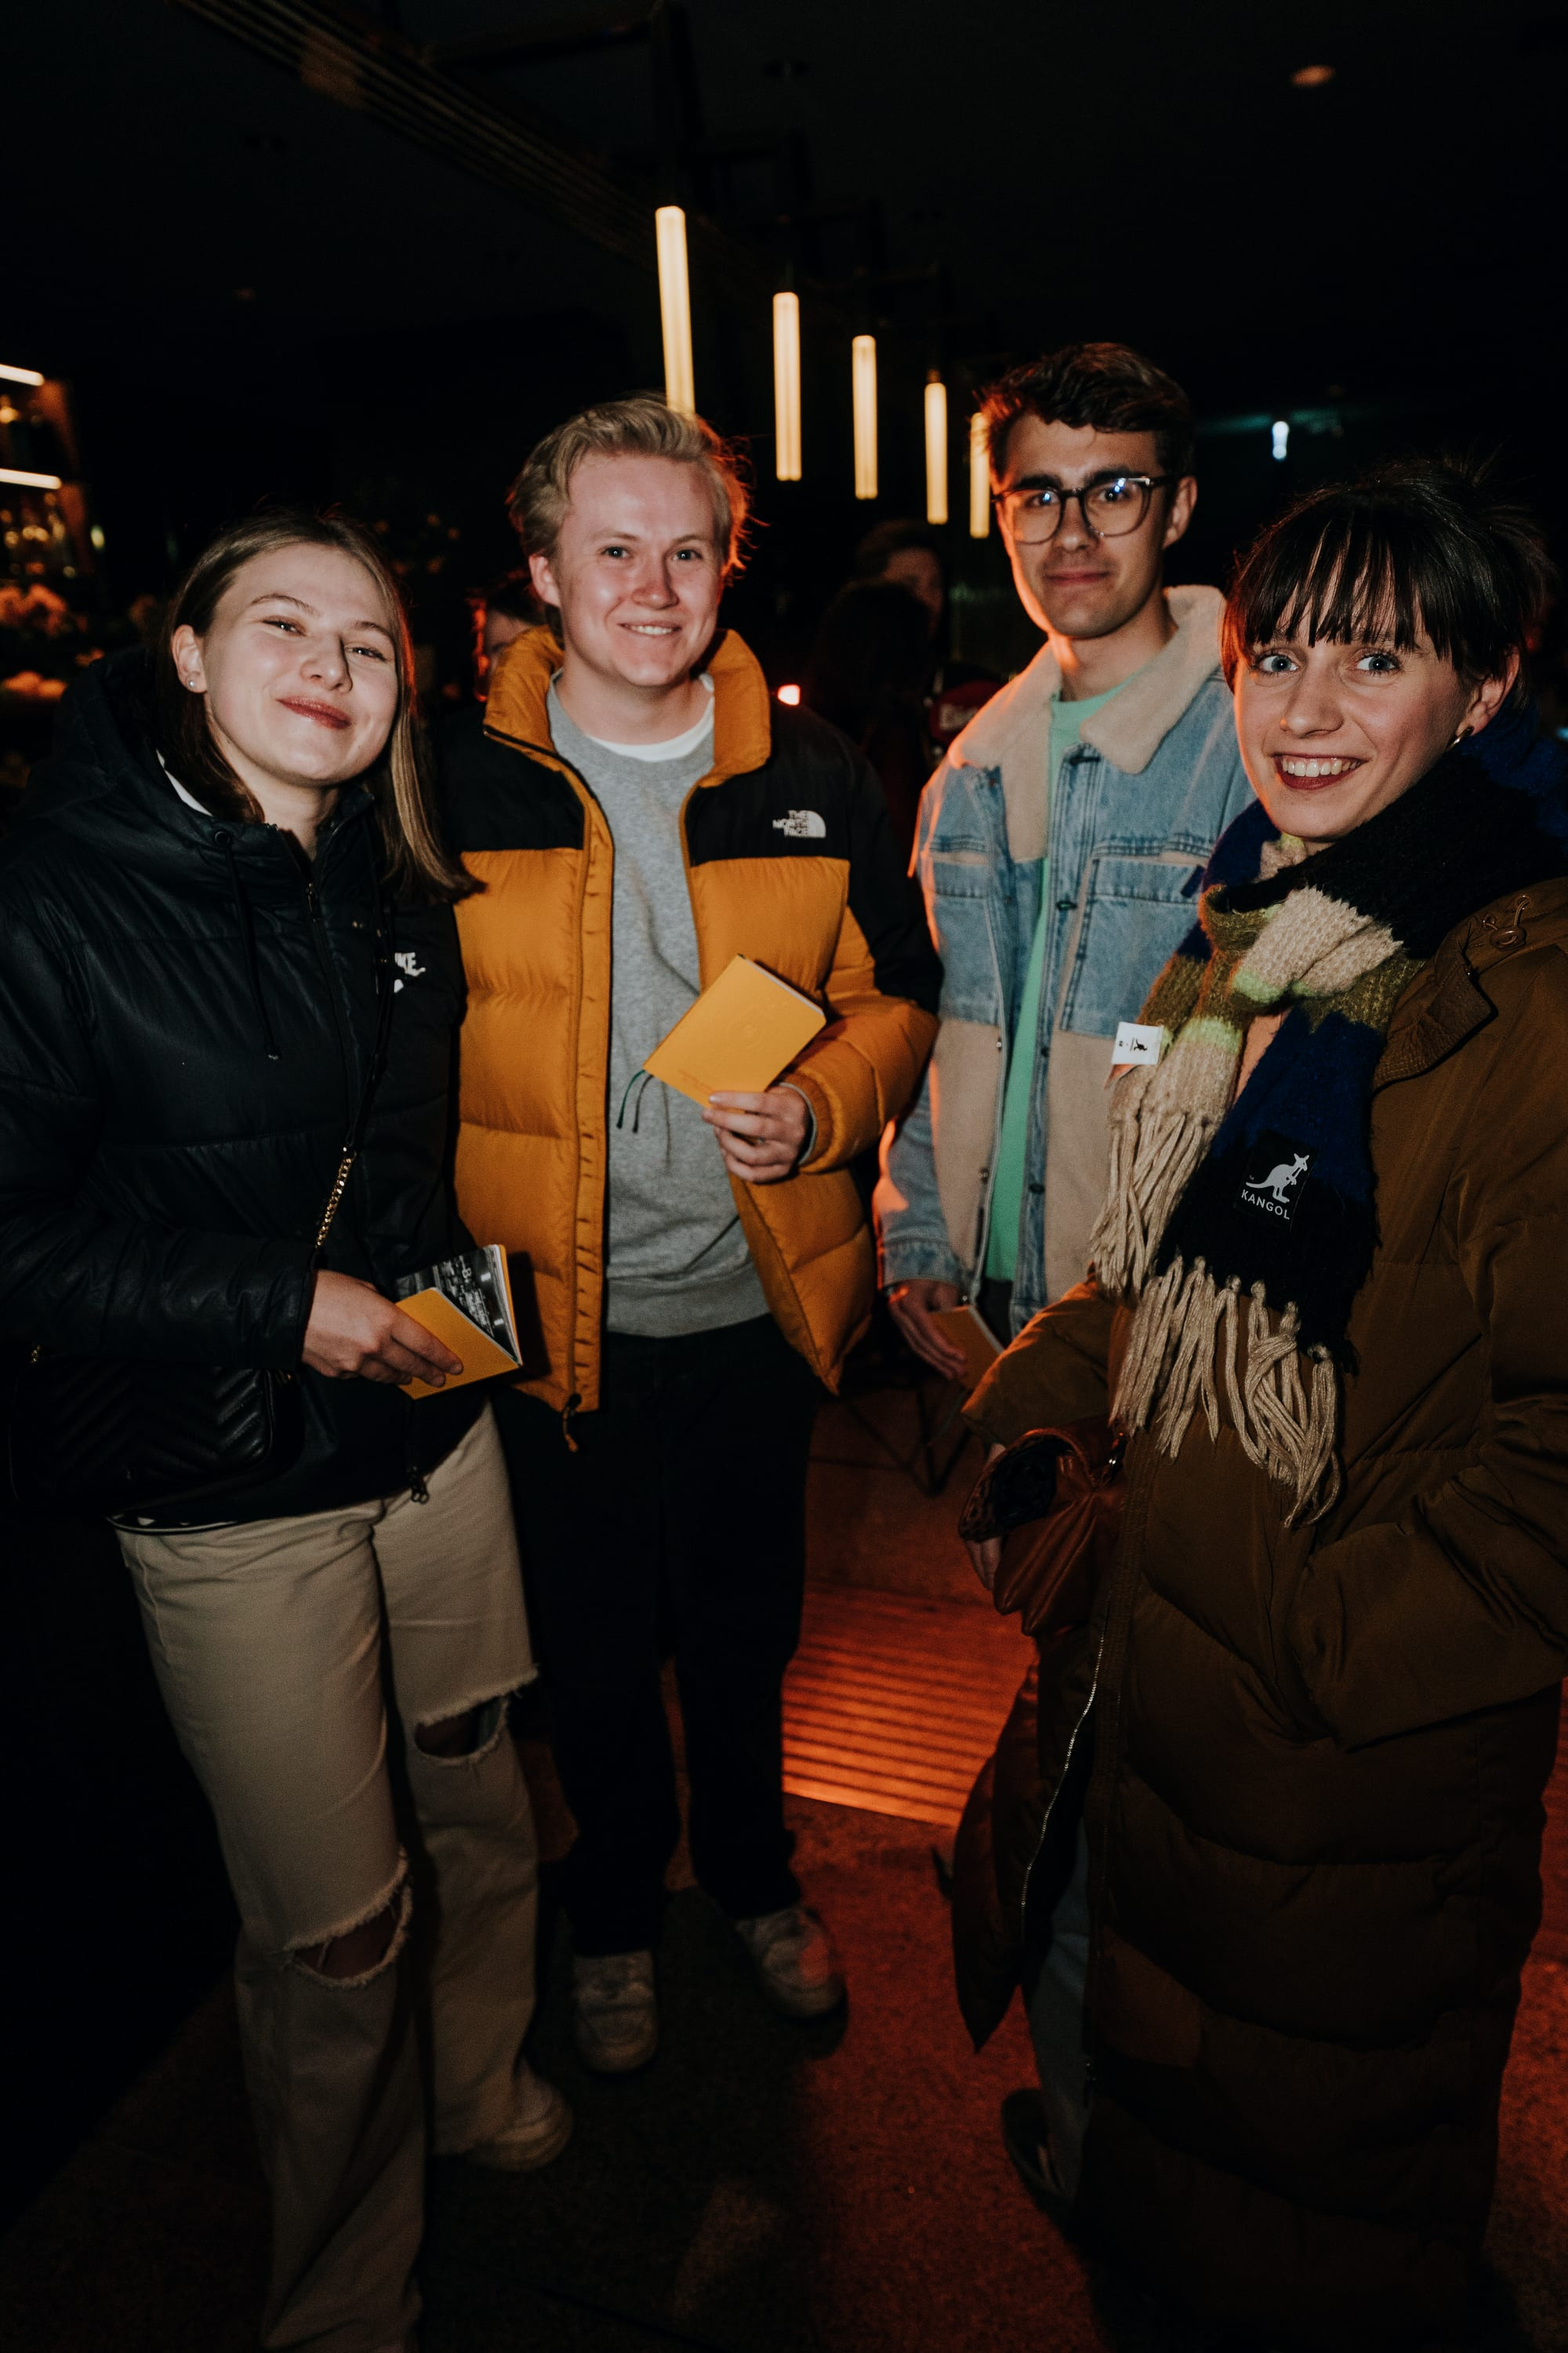
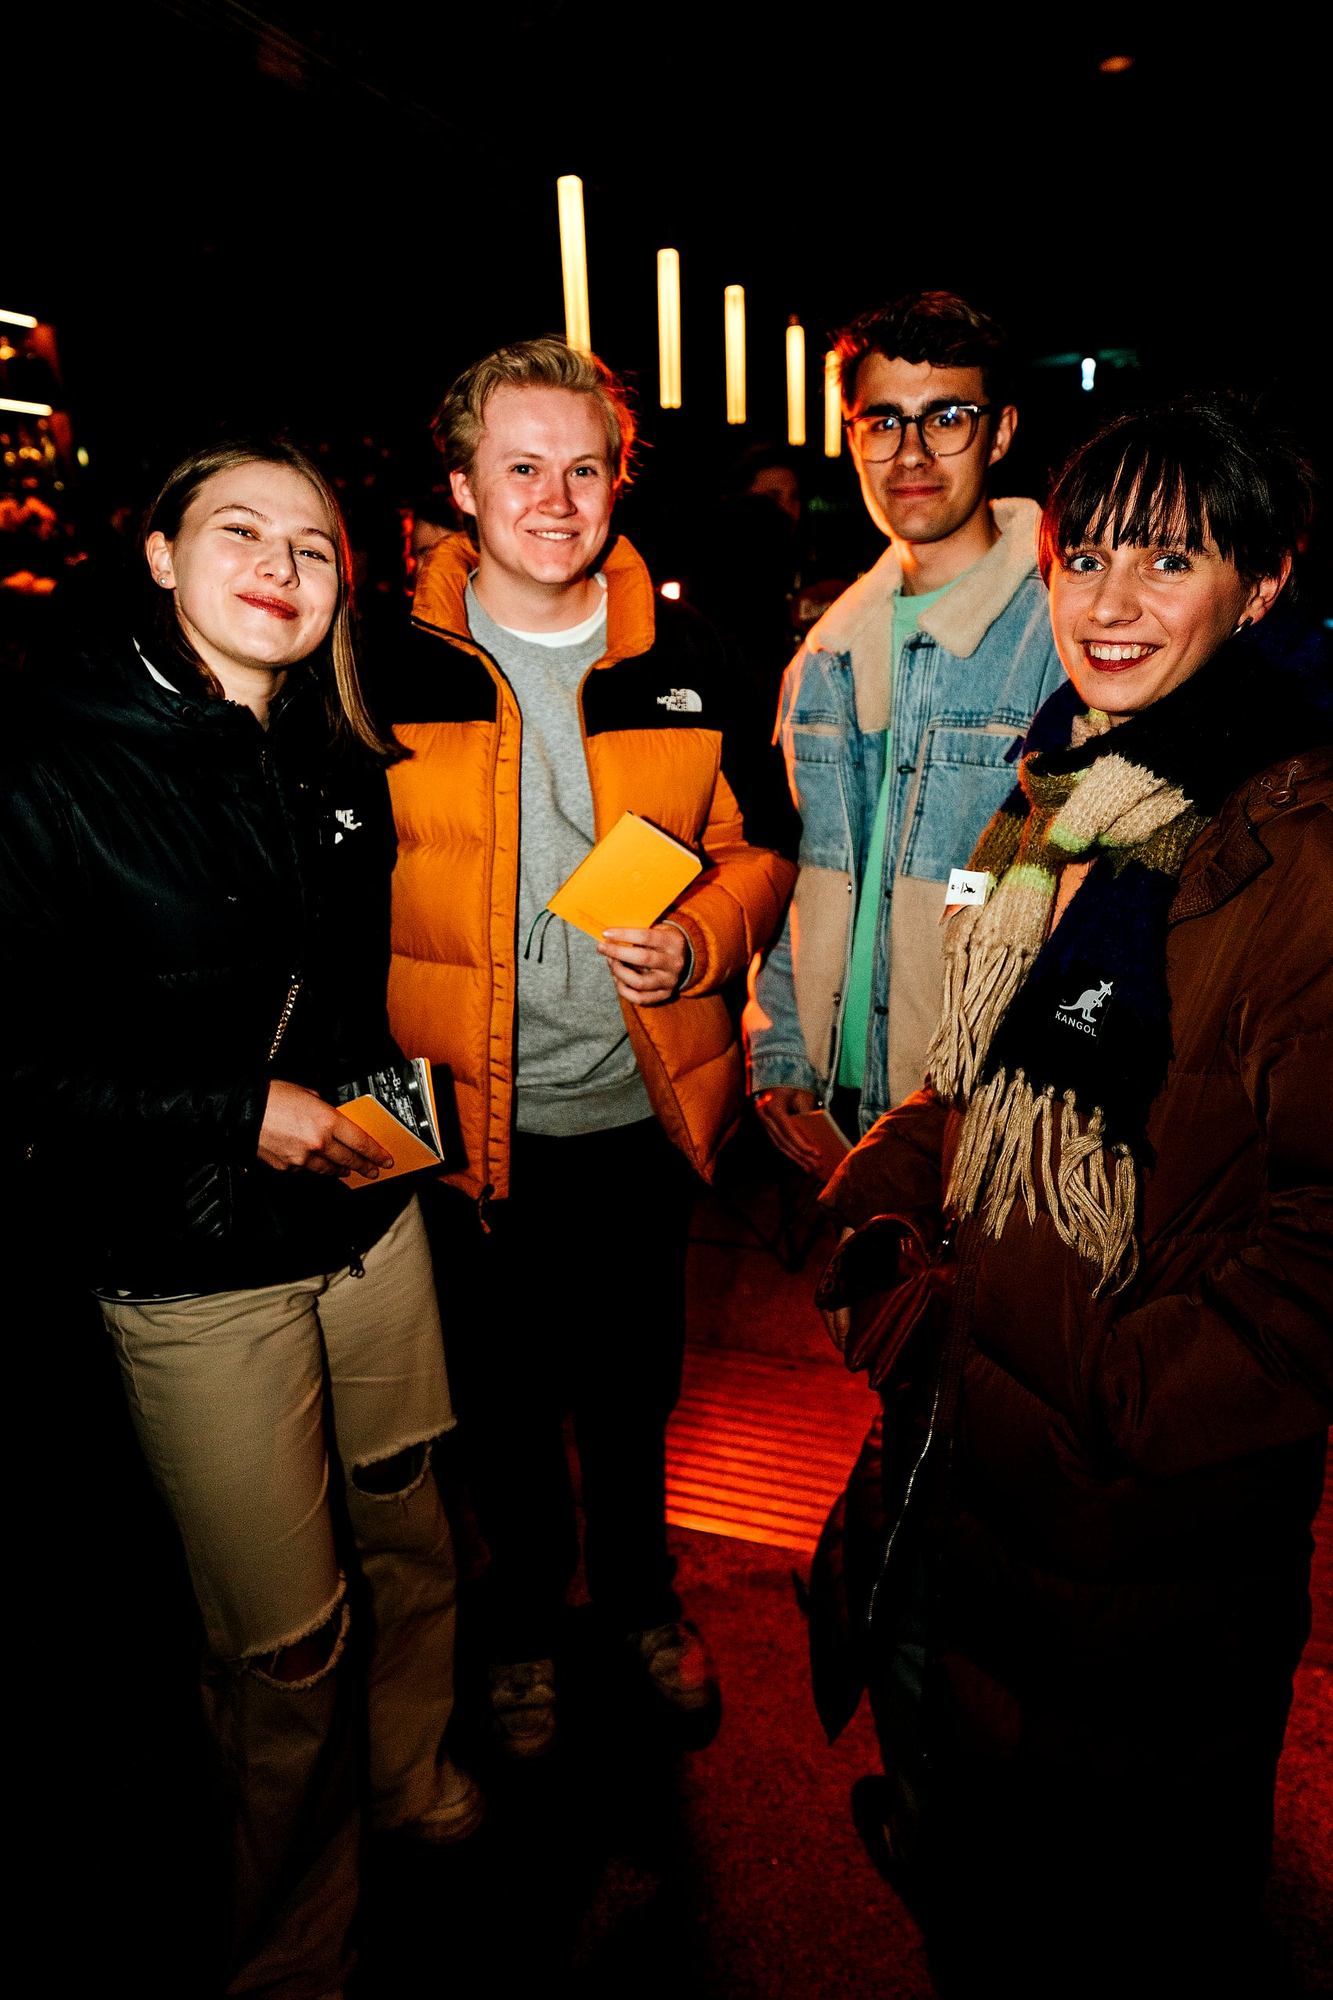
Bilder mit Punch, 13 Motive, laufendes Bildband
Ausstrahlung: Ein Vergleich von Original und Grading hat gezeigt, dass meine
erste Fassung die Bilder FLACHER gemacht hat als das Ausgangsmaterial. Das
kalte Overlay im Weich-Licht-Modus hob den Schwarzpunkt an, die Schatten
wurden milchig und die Drinks verloren ihr Leuchten.

Jetzt andersherum: Der Kontrast macht die Arbeit (linear mit negativem
Versatz), die Schatten laufen tief und bekommen ihren Blaustich ueber den
Versatz je Kanal statt ueber eine Deckschicht. Saettigung leicht hoch, damit
Bernstein und Bar-Licht strahlen, dazu eine feine Schaerfung. Das Overlay
bleibt nur als Hauch fuer das Gesamtklima.

Mehr Bilder: von 6 auf 13 Motive, alle aus derselben Strecke in den Bars.
Neu dabei sind angestossene Glaeser ueber dem Tresen, das Einschenken, Gaeste
in Maenteln bei Kerzenlicht, ein Drink neben der QR-Karte und der Pass in der
Hand. Die letzten beiden zeigen die App-Mechanik im Bild statt nur im Text.

Bewegung: neues Bildband zwischen Kapiteln und Trails. Zwei Reihen laufen
gegeneinander, mit weichen Kanten links und rechts. Das bringt Bewegung und
zeigt gleichzeitig mehr Motive, ohne viel Hoehe zu kosten. Marquee kann jetzt
auch rueckwaerts laufen.

Groesse im Blick behalten: Die Bilder sind nach Rolle gestaffelt, Hero 2400,
Kapitel 1700, Bildband 1100 Pixel. Nach dem ersten Durchlauf lag der Ordner
bei 9,5 MB, jetzt bei 4,8 MB bei mehr als doppelt so vielen Motiven.

diff --git a/src/components/onice/PhotoRail.tsx b/src/components/onice/PhotoRail.tsx
@@ -1,0 +1,65 @@
+"use client";
+
+import Image from "next/image";
+import { Marquee } from "@/components/ui/Motion";
+
+/**
+ * Endlos laufendes Bildband.
+ *
+ * Loest zwei Dinge auf einmal: Es bringt Bewegung in die Seite und zeigt mehr
+ * Motive, als eine statische Galerie unterbringen wuerde, ohne dafuer Hoehe zu
+ * kosten. Zwei Reihen laufen gegeneinander, das liest sich lebendiger als eine.
+ *
+ * Die Bilder sind bewusst schmal ausgegeben (1100 px), weil sie nie groesser
+ * als eine Kachel dargestellt werden.
+ */
+
+const ROW_A = [
+  { src: "/images/onice/onice-bar-clink.jpg", alt: "Gäste stoßen mit Cocktails an" },
+  { src: "/images/onice/onice-bar-keeper.jpg", alt: "Barkeeper mixt einen Drink" },
+  { src: "/images/onice/onice-bar-coats.jpg", alt: "Gäste im Mantel bei Kerzenlicht in der Bar" },
+  { src: "/images/onice/onice-bar-serve.jpg", alt: "Cocktail wird auf dem Tresen serviert" },
+  { src: "/images/onice/onice-bar-pour.jpg", alt: "Drink wird eingeschenkt" },
+];
+
+const ROW_B = [
+  { src: "/images/onice/onice-bar-qr.jpg", alt: "Drink neben dem QR-Code für die App" },
+  { src: "/images/onice/onice-bar-friends.jpg", alt: "Zwei Gäste lachen an der Bar" },
+  { src: "/images/onice/onice-bar-clink2.jpg", alt: "Angestoßene Gläser über dem Tresen" },
+  { src: "/images/onice/onice-bar-pass.jpg", alt: "Pass in der Hand neben den Drinks" },
+  { src: "/images/onice/onice-bar-winter.jpg", alt: "Gäste in Winterjacken mit dem Pass" },
+];
+
+function Tile({ src, alt }: { src: string; alt: string }) {
+  return (
+    <div className="relative w-[210px] sm:w-[260px] aspect-[3/4] mx-1.5 rounded-xl overflow-hidden ring-1 ring-hairline">
+      <Image src={src} alt={alt} fill sizes="260px" className="object-cover" />
+    </div>
+  );
+}
+
+export default function PhotoRail() {
+  return (
+    <section className="py-6 md:py-10 overflow-hidden" aria-label="Eindrücke aus den Bars">
+      <div className="relative">
+        <Marquee speed={46}>
+          {ROW_A.map((p) => (
+            <Tile key={p.src} {...p} />
+          ))}
+        </Marquee>
+        <div className="h-3" />
+        {/* Zweite Reihe laeuft langsamer und startet versetzt, dadurch wirken
+            die beiden Baender nicht wie eine einzige Flaeche. */}
+        <Marquee speed={62} reverse>
+          {ROW_B.map((p) => (
+            <Tile key={p.src} {...p} />
+          ))}
+        </Marquee>
+
+        {/* Weiche Kanten, damit die Kacheln nicht hart abgeschnitten wirken */}
+        <div className="pointer-events-none absolute inset-y-0 left-0 w-16 md:w-32 bg-gradient-to-r from-licorice to-transparent" />
+        <div className="pointer-events-none absolute inset-y-0 right-0 w-16 md:w-32 bg-gradient-to-l from-licorice to-transparent" />
+      </div>
+    </section>
+  );
+}

diff --git a/src/components/ui/Motion.tsx b/src/components/ui/Motion.tsx
@@ -312,17 +312,20 @@ export function Marquee({
   children,
   speed = 32,
   className,
+  reverse = false,
 }: {
   children: React.ReactNode;
   speed?: number;
   className?: string;
+  /** Laeuft nach rechts statt nach links. Fuer gegenlaeufige Baender. */
+  reverse?: boolean;
 }) {
   const reduced = useReducedMotion();
   return (
     <div className={`relative overflow-hidden ${className ?? ""}`}>
       <motion.div
         className="flex w-max"
-        animate={reduced ? undefined : { x: ["0%", "-50%"] }}
+        animate={reduced ? undefined : { x: reverse ? ["-50%", "0%"] : ["0%", "-50%"] }}
         transition={{ duration: speed, repeat: Infinity, ease: "linear" }}
       >
         <div className="flex shrink-0">{children}</div>

diff --git a/src/app/[locale]/page.tsx b/src/app/[locale]/page.tsx
@@ -5,6 +5,7 @@ import CheckoutButton from "@/components/onice/CheckoutButton";
 import PriceCountdown from "@/components/onice/PriceCountdown";
 import FaqAccordion from "@/components/onice/FaqAccordion";
 import StickyPass from "@/components/onice/StickyPass";
+import PhotoRail from "@/components/onice/PhotoRail";
 import {
   CountUp,
   LiftCard,
@@ -200,6 +201,9 @@ export default function OnIcePage({ params }: { params: { locale: string } }) {
           ))}
         </div>
       </section>
+
+      {/* ══ Bildband ══ */}
+      <PhotoRail />
 
       {/* ══ Trails ══ */}
       <section id="trails" className="border-y border-hairline scroll-mt-24">
